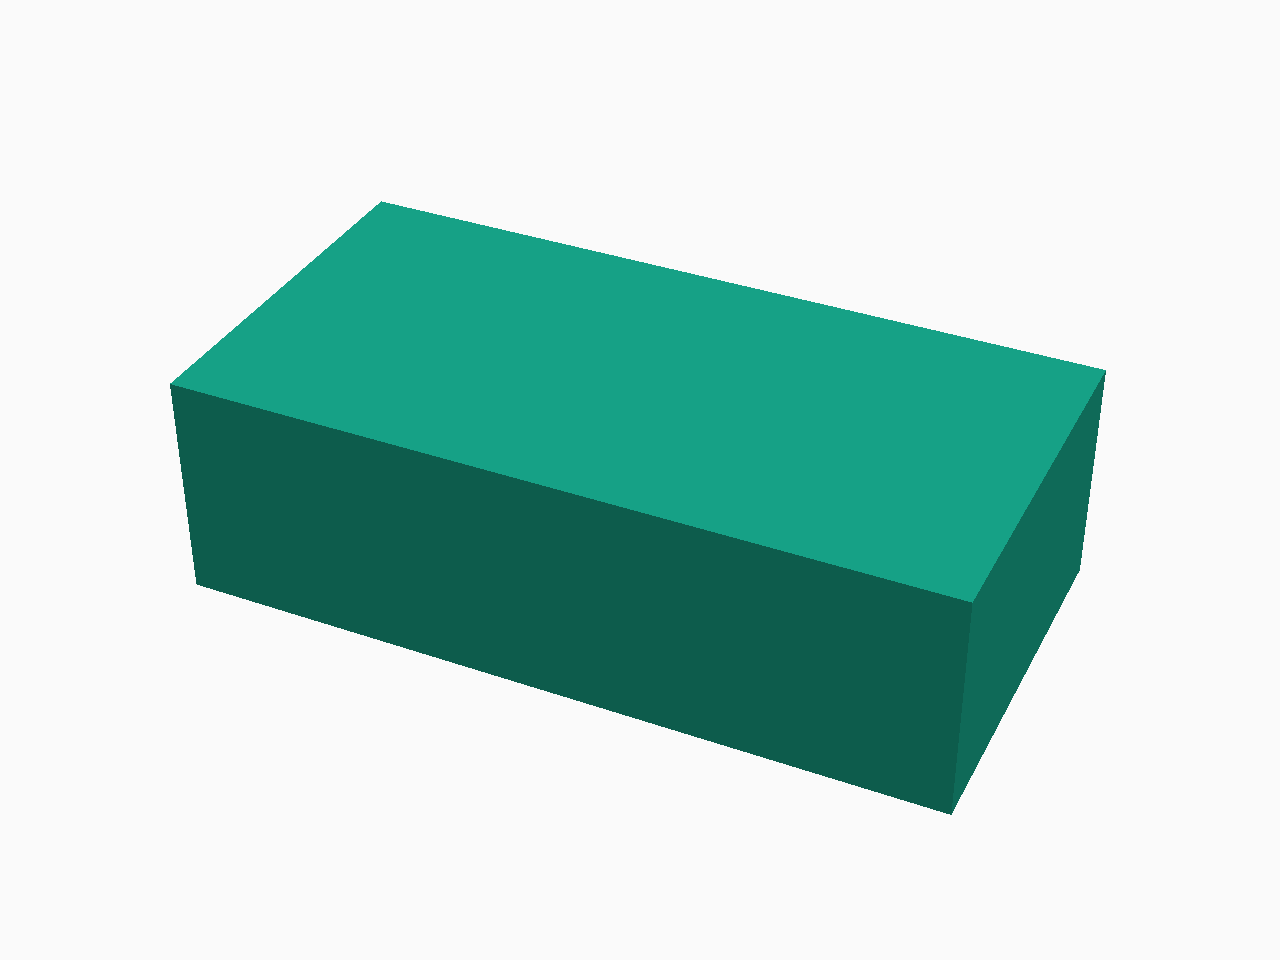
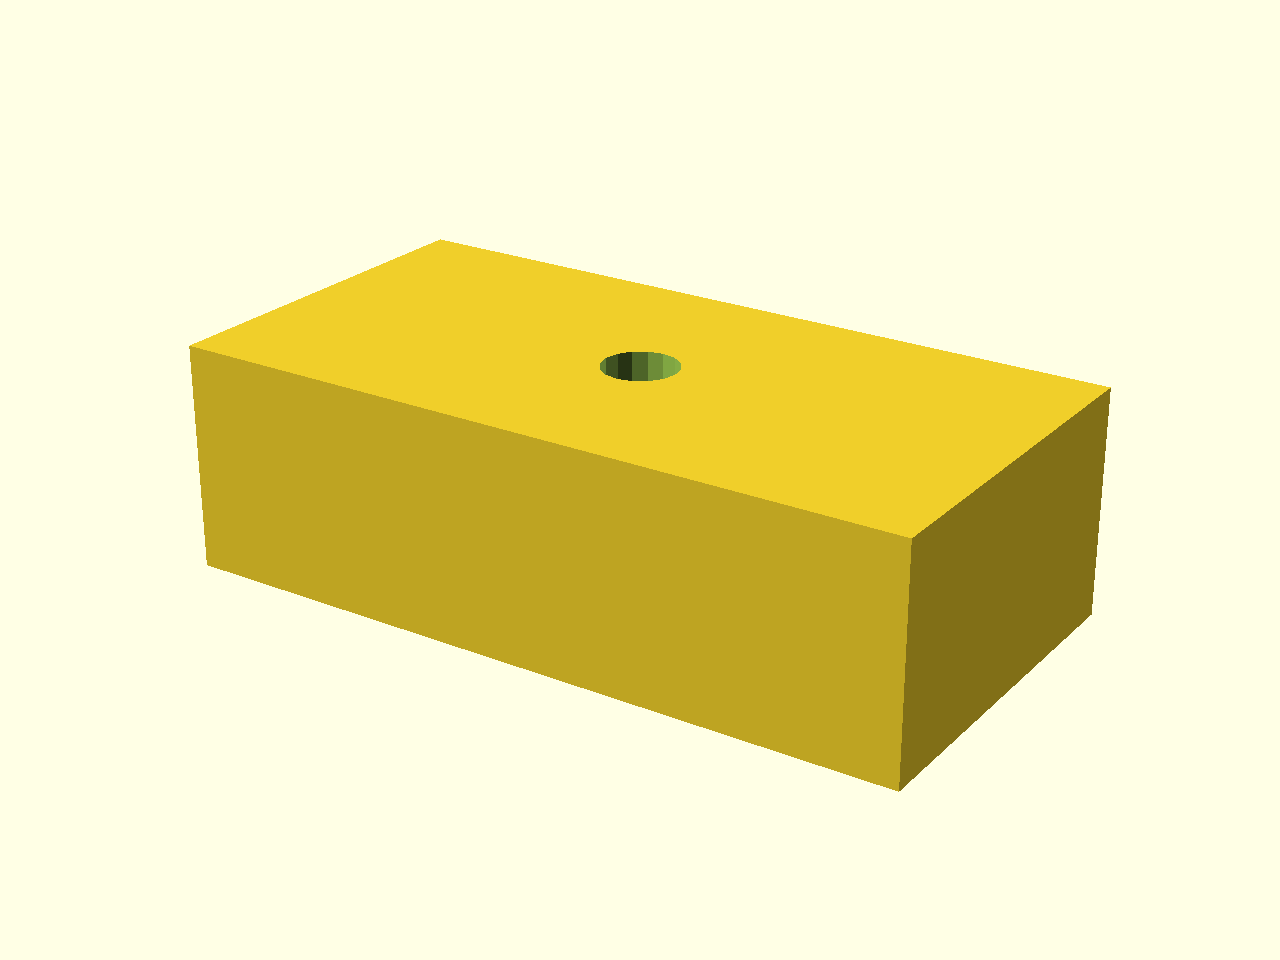
CSG robustness: explicit role attributes, { } braces, auto oversize + z-nudge cutters

diff --git a/src/sysmlcad/openscad.py b/src/sysmlcad/openscad.py
@@ -449,14 +449,16 @@ class OpenSCADRenderer:
         self.dedent()
 
     def _scale(self, shape: Scale):
-        self.write(f"scale({shape.params['factor']})")
+        f = shape.params["factor"]
+        self.write(f"scale([{f[0]}, {f[1]}, {f[2]}])")
         self.indent()
         for child in shape.children:
             self._render_shape(child)
         self.dedent()
 
     def _mirror(self, shape: Mirror):
-        self.write(f"mirror({shape.params['normal']})")
+        n = shape.params["normal"]
+        self.write(f"mirror([{n[0]}, {n[1]}, {n[2]}])")
         self.indent()
         for child in shape.children:
             self._render_shape(child)
@@ -467,28 +469,31 @@ class OpenSCADRenderer:
     def _union(self, shape: Union):
         if not shape.children:
             return
-        self.write("union()")
+        self.write("union() {")
         self.indent()
         for child in shape.children:
             self._render_shape(child)
         self.dedent()
+        self.write("}")
 
     def _difference(self, shape: Difference):
-        self.write("difference()")
+        self.write("difference() {")
         self.indent()
         self._render_shape(shape.positive)
         for neg in shape.negatives:
             self._render_shape(neg)
         self.dedent()
+        self.write("}")
 
     def _intersection(self, shape: Intersection):
         if not shape.children:
             return
-        self.write("intersection()")
+        self.write("intersection() {")
         self.indent()
         for child in shape.children:
             self._render_shape(child)
         self.dedent()
+        self.write("}")
 
     # ---- modules ----
 
@@ -539,43 +544,51 @@ class OpenSCADRenderer:
     def _hull(self, shape: Hull):
         if not shape.children:
             return
-        self.write("hull()")
+        self.write("hull() {")
         self.indent()
         for child in shape.children:
             self._render_shape(child)
         self.dedent()
+        self.write("}")
 
     def _minkowski(self, shape: Minkowski):
         if not shape.children:
             return
-        self.write("minkowski()")
+        self.write("minkowski() {")
         self.indent()
         for child in shape.children:
             self._render_shape(child)
         self.dedent()
+        self.write("}")
 
     def _offset(self, shape: Offset):
         c = self._context
         r = self._s(shape.params["r"], c)
         chamfer = shape.params["chamfer"]
         if chamfer:
-            self.write(f"offset(r={r}, chamfer=true)")
+            self.write(f"offset(r={r}, chamfer=true) {{")
         else:
-            self.write(f"offset(r={r})")
+            self.write(f"offset(r={r}) {{")
         self.indent()
         for child in shape.children:
             self._render_shape(child)
         self.dedent()
+        self.write("}")
 
     # ---- assembly ----
 
     def _assembly(self, shape: Assembly):
-        if shape.children:
-            self.write("union()")
+        if not shape.children:
+            return
+        if len(shape.children) == 1:
+            self._render_shape(shape.children[0])
+        else:
+            self.write("union() {")
             self.indent()
             for child in shape.children:
                 self._render_shape(child)
             self.dedent()
+            self.write("}")
 
 
 # ---------------------------------------------------------------------------

diff --git a/src/sysmlcad/sysml_bridge.py b/src/sysmlcad/sysml_bridge.py
@@ -37,6 +37,7 @@ from sysmlcad.ir import (
     Difference,
     Intersection,
     Module,
+    Scale,
     Shape,
     Sphere,
     Torus,
@@ -141,29 +142,69 @@ def part_to_shape(part: sysmlpy.usage.Usage) -> Shape | None:
 
     Any resulting shape is wrapped in ``Translate`` if the part also has
     ``x`` / ``y`` / ``z`` attributes.
+
+    CSG operands can declare an explicit ``role`` attribute:
+
+    * ``role = "positive"`` — the shape being kept (required for difference)
+    * ``role = "negative"`` — the shape being removed (difference only)
+
+    If no roles are set, the first child is treated as positive and
+    remaining children as negatives (order-based fallback).
     """
     attrs = _collect_attrs(part)
 
     # --- CSG operation (operator attribute on nested parts) ----------------
     operator = attrs.get("operator")
     if operator is not None and _child_parts(part):
-        operands = [
-            p for p in (_part_to_shape_recursive(c) for c in _child_parts(part))
-            if p is not None
-        ]
-        if not operands:
-            return None
         op = operator.lower()
-        if len(operands) < 2:
-            return operands[0] if operands else None
+
+        # Collect child shapes, noting their role if declared
+        positives: list[Shape] = []
+        negatives: list[Shape] = []
+        unmarked: list[Shape] = []
+        for c in _child_parts(part):
+            c_attrs = _collect_attrs(c)
+            role = c_attrs.get("role", "")
+            shape = _part_to_shape_recursive(c)
+            if shape is None:
+                continue
+            if role == "positive":
+                positives.append(shape)
+            elif role == "negative":
+                # Oversize + nudge down to prevent CSG coplanar-face artifacts
+                negatives.append(Translate(Scale(shape, 1.001), z=-0.01))
+            else:
+                unmarked.append(shape)
+
+        # Build operands based on roles (fall back to position if unset)
         if op == "difference":
-            shape = Difference(operands[0], operands[1:])
+            if positives or negatives:
+                # Explicit roles — union all positives, subtract all negatives
+                if not positives:
+                    return None
+                pos = Union(positives) if len(positives) > 1 else positives[0]
+                shape = Difference(pos, negatives) if negatives else pos
+            else:
+                # Order-based fallback: first = positive, rest = negatives
+                if len(unmarked) < 2:
+                    return unmarked[0] if unmarked else None
+                shape = Difference(
+                    unmarked[0],
+                    [Translate(Scale(s, 1.001), z=-0.01) for s in unmarked[1:]],
+                )
         elif op == "union":
+            operands = positives + negatives + unmarked
+            if len(operands) < 2:
+                return operands[0] if operands else None
             shape = Union(operands)
         elif op == "intersection":
+            operands = positives + negatives + unmarked
+            if len(operands) < 2:
+                return operands[0] if operands else None
             shape = Intersection(operands)
         else:
             return None
+
         shape.params["_sysml_name"] = part.name
         shape = _apply_translate(shape, attrs)
         return shape

diff --git a/tests/test_cad.py b/tests/test_cad.py
@@ -422,8 +422,18 @@ class TestOpenSCADBackend:
         bracket = Box(100, 50, 30)
         assembly.place(bracket)
         code = export(assembly, backend="openscad")
+        # Single-part assembly renders without union wrapper
+        assert "union()" not in code
+        assert "cube([100, 50, 30])" in code
+
+    def test_export_assembly_multi(self):
+        assembly = Assembly(name="multi")
+        assembly.place(Box(100, 50, 30))
+        assembly.place(Box(20, 20, 20))
+        code = export(assembly, backend="openscad")
         assert "union()" in code
         assert "cube([100, 50, 30])" in code
+        assert "cube([20, 20, 20])" in code
 
     def test_export_wedge(self):
         wedge = Wedge(30, 20, 10)
@@ -464,13 +474,13 @@ class TestOpenSCADBackend:
         sphere = Sphere(5)
         s = Scale(sphere, factor=2)
         code = export(s, backend="openscad")
-        assert "scale((2, 2, 2))" in code
+        assert "scale([2, 2, 2])" in code
 
     def test_export_mirror(self):
         box = Box(10, 10, 10)
         m = Mirror(box, normal=(0, 1, 0))
         code = export(m, backend="openscad")
-        assert "mirror((0, 1, 0))" in code
+        assert "mirror([0, 1, 0])" in code
 
 
 # ===================================================================
@@ -790,11 +800,13 @@ package Test {
     part bracket {
         attribute operator = "difference";
         part base {
+            attribute role = "positive";
             attribute length = 100.0;
             attribute width = 50.0;
             attribute height = 30.0;
         }
         part hole {
+            attribute role = "negative";
             attribute height = 30.0;
             attribute radius = 5.0;
         }

diff --git a/src/sysmlcad/render.py b/src/sysmlcad/render.py
@@ -209,7 +209,7 @@ class PngBackend(ShapeBackend):
         * ``colorscheme`` -- OpenSCAD color scheme name
           (e.g. ``"Nature"``, ``"Sunset"``, ``"Metallic"``)
         """
-        extra = []
+        extra = ["--viewall", "--autocenter"]
 
         w = options.get("width", 800)
         h = options.get("height", 600)
@@ -222,6 +222,9 @@ class PngBackend(ShapeBackend):
         camera = options.get("camera")
         if camera:
             extra.append(f"--camera={','.join(str(v) for v in camera)}")
+        else:
+            # Default 3/4-perspective from front-right-above
+            extra.append("--camera=100,-150,80,0,0,0")
 
         return _openscad_render(
             shape,
@@ -261,10 +264,13 @@ class SvgBackend(ShapeBackend):
         * ``camera`` -- 6-tuple ``(eye_x, eye_y, eye_z, center_x,
           center_y, center_z)``
         """
-        extra = []
+        extra = ["--viewall", "--autocenter"]
         camera = options.get("camera")
         if camera:
-            extra.extend(["--camera", ",".join(str(v) for v in camera)])
+            extra.append(f"--camera={','.join(str(v) for v in camera)}")
+        else:
+            # Default 3/4-perspective from front-right-above
+            extra.append("--camera=100,-150,80,0,0,0")
 
         return _openscad_render(
             shape,

diff --git a/README.md b/README.md
@@ -14,6 +14,40 @@ part = box - hole
 print(export(part, backend="openscad"))
 ```
 
+### Flange — SysML v2 → PNG
+
+Design a 120×80×20 plate with four bolt holes in SysML v2 and render to PNG
+in one step:
+
+```
+// examples/flange.sysml
+package Flange {
+    part flange {
+        attribute operator = "difference";
+        part plate {
+            attribute role = "positive";
+            attribute length = 120.0 [mm];
+            attribute width  = 80.0 [mm];
+            attribute height = 20.0 [mm];
+        }
+        part hole1 { attribute role = "negative";
+            attribute height = 20.0 [mm]; attribute radius = 3.0 [mm];
+            attribute x = 15.0 [mm]; attribute y = 15.0 [mm]; }
+        part hole2 { attribute role = "negative";
+            attribute height = 20.0 [mm]; attribute radius = 3.0 [mm];
+            attribute x = 105.0 [mm]; attribute y = 15.0 [mm]; }
+        part hole3 { attribute role = "negative";
+            attribute height = 20.0 [mm]; attribute radius = 3.0 [mm];
+            attribute x = 15.0 [mm]; attribute y = 65.0 [mm]; }
+        part hole4 { attribute role = "negative";
+            attribute height = 20.0 [mm]; attribute radius = 3.0 [mm];
+            attribute x = 105.0 [mm]; attribute y = 65.0 [mm]; }
+    }
+}
+```
+
+![Flange rendered with the PNG backend](examples/flange.png)
+
 ## Quick links
 
 - **[TUTORIAL.md](TUTORIAL.md)** — step-by-step guide with examples

diff --git a/TUTORIAL.md b/TUTORIAL.md
@@ -452,7 +452,21 @@ The bridge convention maps SysML attributes to CAD parameters:
 | `height`, `radius1`, `radius2` | `Cone` |
 | `majorRadius`, `minorRadius` | `Torus` |
 | `operator` + child parts | CSG (union/difference/intersection) |
+| `role` (`"positive"`/`"negative"`) | CSG operand role (difference only) |
 | `x`, `y`, `z` | `Translate` |
+
+For ``difference``, child parts can declare an explicit ``role`` attribute:
+
+```sysml
+part bracket {
+    attribute operator = "difference";
+    part base { attribute role = "positive"; ... }
+    part hole { attribute role = "negative"; ... }
+}
+```
+
+If no roles are set, the order-based fallback applies: the first child is the
+positive and remaining children are negatives.
 
 ---
 
